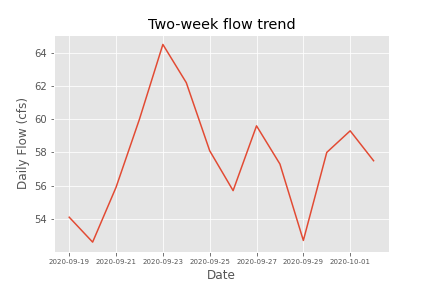
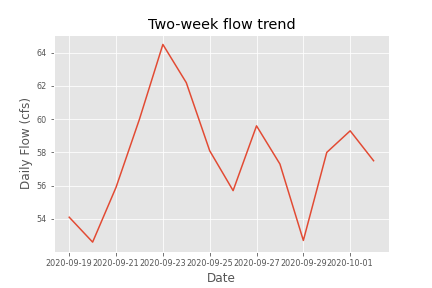
Sunday Work - Final touches

diff --git a/assignment_6/Noonan_HW6_draft.py b/assignment_6/Noonan_HW6_draft.py
@@ -73,10 +73,9 @@ test
 
 #%%
 # Fit a linear regression model using sklearn
-model = LinearRegression()
 x=train['flow_tm1'].values.reshape(-1,1) 
 y=train['flow'].values
-model.fit(x,y)
+model = LinearRegression().fit(x, y) #shortened starter code!
 
 #%%
 # r^2 values
@@ -106,7 +105,7 @@ fig.savefig('One-week(Test1).png')
 q_pred_train = model.predict(train['flow_tm1'].values.reshape(-1,1))
 q_pred_test = model.predict(test['flow_tm1'].values.reshape(-1,1))
 print(q_pred_test)
-
+print(q_pred_train)
 #%%
 # you could also predict the q for just a single value like this
 last_week_flow = 56
@@ -137,11 +136,9 @@ ax.legend(frameon=True, fancybox=True, shadow=True)
 fig.savefig('One-week(Test1)_(t-vs-(t-1)).png')
 
 
-
-
-
-# %%
 #WEEKLY FORECAST WEEK 6
+# ----------------------------------------------
+# %%
 #import dataframe_image to export tables to png
 import dataframe_image as dfi
 #%%
@@ -159,34 +156,20 @@ print(df)
 dfi.export(df, "Last7days-stats.png")
 
 # %%
-# look at trend over last two weeks
+#looks at prior two week stats
 data_two_wks = data.tail(14)
-fig, ax = plt.subplots()
+df2 = data_two_wks[["flow"]].describe()
+print(df2)
+dfi.export(df2, "Last14days-stats.png")
 
+#%%
+# look at trend over last two weeks
+fig, ax = plt.subplots()
 ax.plot(data_two_wks.datetime, data_two_wks.flow)
 ax.set(title="Two-week flow trend")
 ax.set(xlabel='Date', ylabel='Daily Flow (cfs)')
-plt.rc('xtick', labelsize=7)
 plt.show()
 fig.savefig('Two-week-Trend_(Old-Code).png')
-
-#%%
-# 2week forecast - Oct11-17 min
-month = 10
-day_more = 11
-day_less = 17
-
-data_two_week = data[(data["month"]==month) & (data["day"] >=day_more) & (data["day"] <=day_less)]
-data_two_week["flow"].min()
-
-# %%
-#seasonal wk6 historical min
-month1 = 9
-day1 = 27
-month2 = 10
-day2 = 3
-data_seasonal_6 = data[((data["month"]==month1) & (data["day"] >=day1)) | ((data["month"] ==month2) & (data["day"] <=day2))]
-data_seasonal_6["flow"].min()
 
 # %%
 #seasonal wk7 historical min
@@ -278,4 +261,4 @@ day_less = 12
 data_two_week = data[(data["month"]==month) & (data["day"] >=day_more) & (data["day"] <=day_less)]
 data_two_week["flow"].min()
 
-# %%
+

diff --git a/Submissions/Noonan_HW6.md b/Submissions/Noonan_HW6.md
@@ -21,7 +21,8 @@ ___
 
 - **(3) what you used as your testing and training periods. In your discussion please include graphical outputs that support why you made the decisions you did with your model.**
 
-  - I tried a number of different prediction variables for the training period using the base code in my .py file.   I tried looking at data over all time up to test period (most recent 10 weeks), all data since 2015 up to test period, and all data 2017 up to test period.   The model r2 values were quite low for these trials (ranging from around 0.1 to 0.3) so i decided to isolate just data in the month of September to try to improve the model.   I then added in a month == variable and I looked at both all September data since 2015 and came up with an r2 of 0.62, which was improved.  Shifting that window up to 2017 - 2019 for the September data training period gave me an r2 of 0.76 which may be as good as it will get! I also tried adding in the month of August using the or (|) statement, but the fit was decreases so I stuck with just September for training data.  The figure below shows my final testing and training periods plotted.  These gave me the best fit for linear regression from all of my trials.  
+  - I tried a number of different prediction variables for the training period using the base code in my .py file and modifying the month and year selections and & and | combinations.   
+    * I tried looking at data over all time up to test period (most recent 10 weeks), all data since 2015 up to test period, and all data 2017 up to test period.  The model r2 values were quite low for these trials (ranging from around 0.1 to 0.3) so I decided to isolate just data in the month of September to try to improve the model.  I then added in a month == variable and I looked at all September data since 2015 and came up with an r2 of 0.62, which was improved.  Shifting that window up to 2017 - 2019 for the September data training period gave me an r2 of 0.76 which may be as good as it will get! I also tried adding in the month of August using the or statement, but the fit was decreased so I stuck with just September for the training data.  The figure below shows my final testing and training periods plotted.  These gave me the best fit for linear regression from all of my trials.  
 
 
 ![](assets/Noonan_HW6-cbbdb018.png)
@@ -29,35 +30,35 @@ ___
 
 
 **Provide an analysis of your final model performance. This should include at least one graph that shows the historical vs predicted streamflow and some discussion of qualitatively how you think your model is good or bad.**  
-  - ....  
+  - Final model performance was not bad for the scatter plot below, which shows an r2 value of 0.76 (best fit would be one).  This is decent, however, the data used are a small subset of data.   Also, i am not sure if it is even an acceptable practice to omit large sections of data such as I did in only selecting September and omitting all other month's successive data.   In any case, the Observed vs. Simulated Flow plots track each other fairly well and I like that the simulated is predicting a little below the observed since we are in a drier year this year.  In summary, however, I don't think it's a good or trustworthy model based on the fact that it contains too little training data that is not successive.     
 
 ![](assets/Noonan_HW6-0fc29a7b.png)
 
 ![](assets/Noonan_HW6-59689e8f.png)
 
 **Finally, provide discussion on what you actually used for your forecast. Did you use your AR model, why or why not? If not how did you generate your forecast this week?**  
+    - Discussion for the Week 6 forecast:  
 
-    - Discussion for the Week 6 forecast:
-      - One-week forecast - I did not use my AR model becuase i think it will be too high based on the current historical lows we are experiencing.   
+  - One-week forecast - I did not use my AR model becuase i think it will be too high based on the current historical (or less than historical) lows we are experiencing.  The historical low for our dataset for Oct 4-10 is 69.9cfs.
 
-        I used my base code from last week.  I did make some edits though - for example i discovered and imported dataframe_image to export tables to png (no more snip and save!).  I did have to fix a typo in the starter code to make it work ((date-year-month-day expansion) where it made ".day" equal to ".dayofweek" in error), but it was a good code hunt to figure out why it wasn't working!
+  I used my base code from last week.  I did make some edits though - for example i discovered and imported dataframe_image to export tables to png (no more snip and save!).  I did have to fix a typo in the starter code to make it work ((date-year-month-day expansion) where it made ".day" equal to ".dayofweek" in error), but it was a good code hunt to figure out why it wasn't working!  
 
-        I looked at the last 7 days and the min, max and mean value. I then looked at the data trend plot over the last two weeks and it is trending pretty steady so I went right around the mean for prior 7 days for the 1wk forecast.
+  I looked at the last 7 days and last 14 days and the min, max and mean flow value. I then looked at the data trend plot over the last 14 days and it is trending pretty steady so I went right around the mean for prior 14 days for the 1wk forecast.  The value I chose is the 50th percentile = 57.75cfs.
 
 **last 7 days stats**  
 ![](assets/Noonan_HW6-66cbfd1b.png)  
 
-**data trend plot**  
+**last 14 days stats**  
+![](assets/Noonan_HW6-77bb33f9.png)
+
+**Two-week flow trend plot**  
 ![](assets/Noonan_HW6-38486aff.png)
 
 
-      - Two-week forecast -  
+- Two-week forecast -  For the two week forecast, I simply sadly bet the trend will remain hovering around ~58cfs since it has been for the last two weeks.
 
 
-      - Seasonal forecast -
-
-
-
+- Seasonal forecast - for upcoming weeks remaining in semester, I continued to use historical minimum flows for the selected time periods, which hopefully are still not over-forecasted for this year!!  C'mon rain!
 
 ---
 
